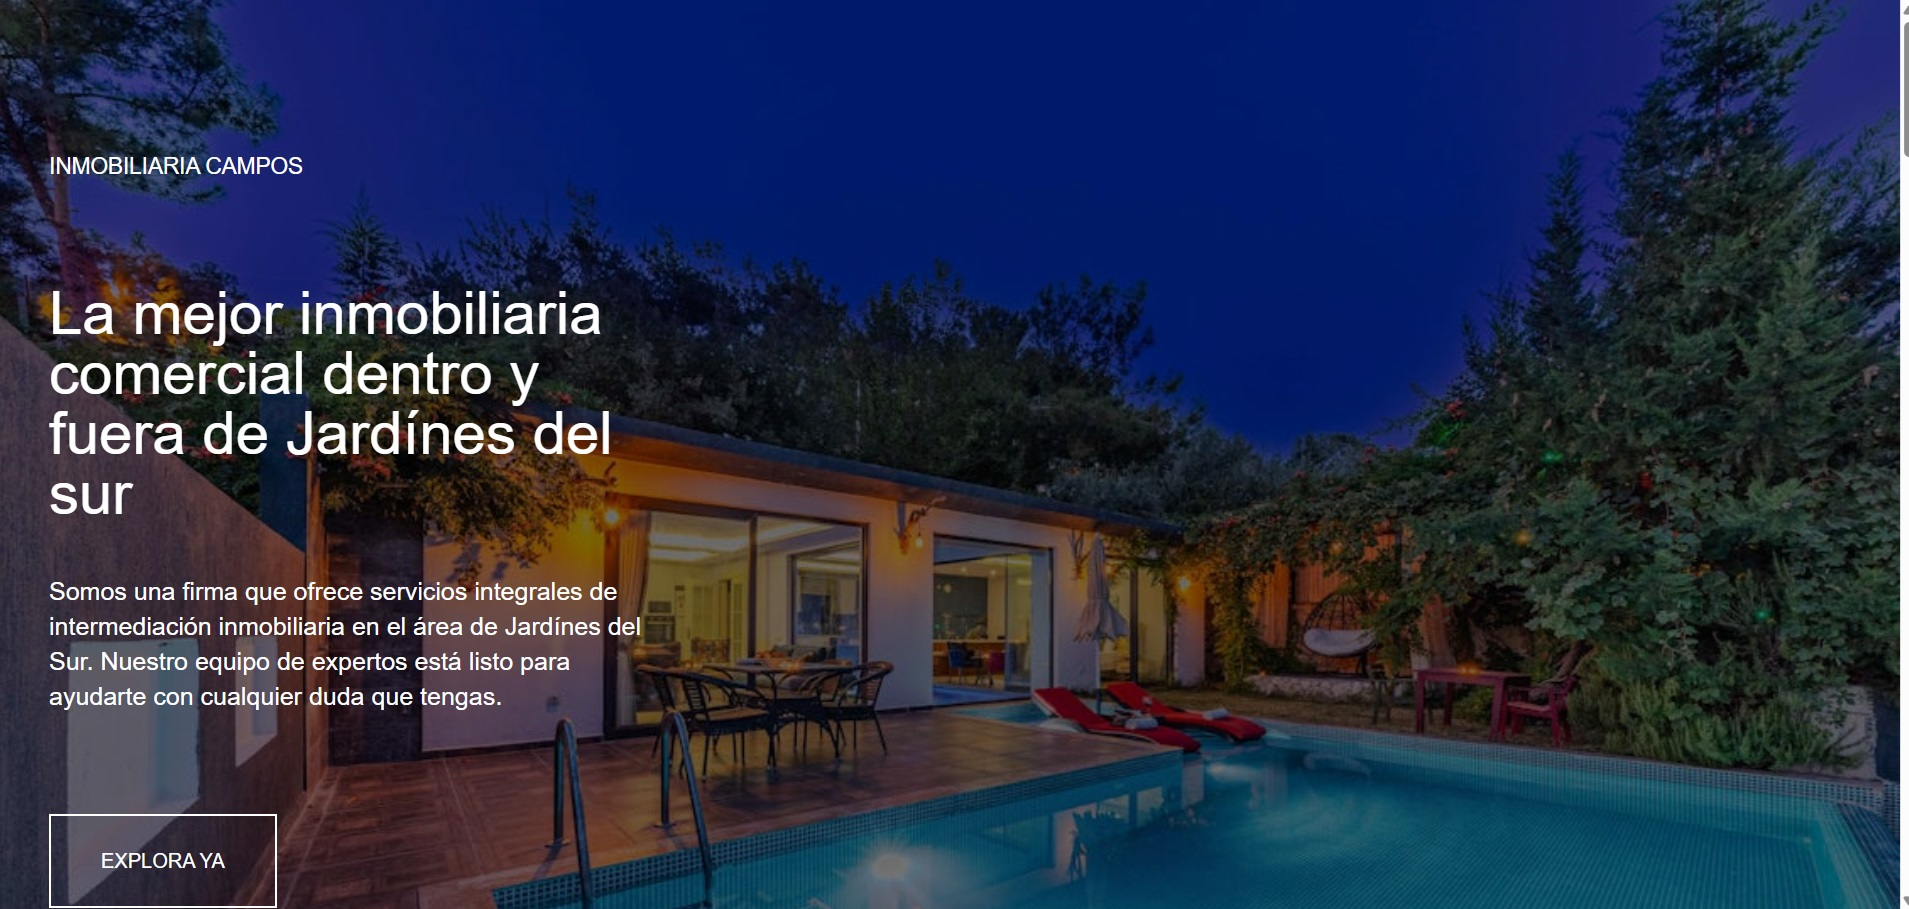
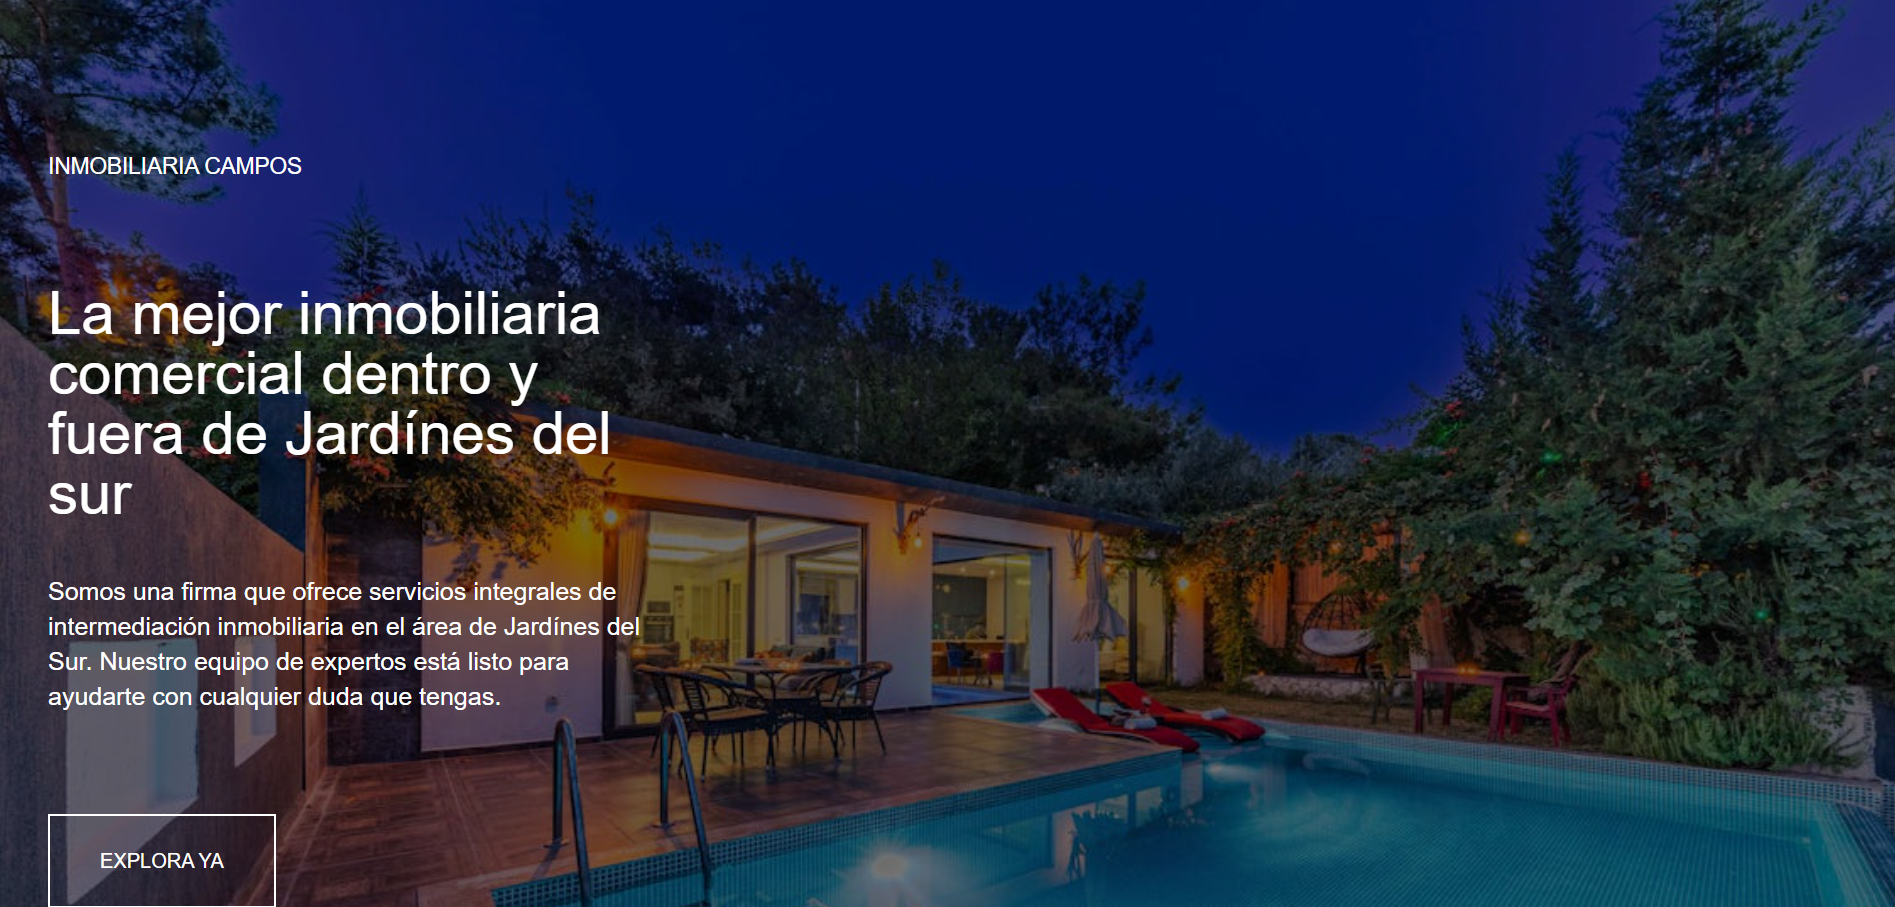
Imagen nueva y boton deshabilitado para no enviar mensajes múltiples, se añade spinner

diff --git a/app/contacto/styles.css b/app/contacto/styles.css
@@ -1,0 +1,122 @@
+.sk-circle {
+    margin: 20px auto;
+    width: 40px;
+    height: 40px;
+    position: relative;
+  }
+
+  .sk-circle .sk-child {
+    width: 100%;
+    height: 100%;
+    position: absolute;
+    left: 0;
+    top: 0;
+  }
+  .sk-circle .sk-child:before {
+    content: '';
+    display: block;
+    margin: 0 auto;
+    width: 15%;
+    height: 15%;
+    background-color: #333;
+    border-radius: 100%;
+    -webkit-animation: sk-circleBounceDelay 1.2s infinite ease-in-out both;
+            animation: sk-circleBounceDelay 1.2s infinite ease-in-out both;
+  }
+  .sk-circle .sk-circle2 {
+    -webkit-transform: rotate(30deg);
+        -ms-transform: rotate(30deg);
+            transform: rotate(30deg); }
+  .sk-circle .sk-circle3 {
+    -webkit-transform: rotate(60deg);
+        -ms-transform: rotate(60deg);
+            transform: rotate(60deg); }
+  .sk-circle .sk-circle4 {
+    -webkit-transform: rotate(90deg);
+        -ms-transform: rotate(90deg);
+            transform: rotate(90deg); }
+  .sk-circle .sk-circle5 {
+    -webkit-transform: rotate(120deg);
+        -ms-transform: rotate(120deg);
+            transform: rotate(120deg); }
+  .sk-circle .sk-circle6 {
+    -webkit-transform: rotate(150deg);
+        -ms-transform: rotate(150deg);
+            transform: rotate(150deg); }
+  .sk-circle .sk-circle7 {
+    -webkit-transform: rotate(180deg);
+        -ms-transform: rotate(180deg);
+            transform: rotate(180deg); }
+  .sk-circle .sk-circle8 {
+    -webkit-transform: rotate(210deg);
+        -ms-transform: rotate(210deg);
+            transform: rotate(210deg); }
+  .sk-circle .sk-circle9 {
+    -webkit-transform: rotate(240deg);
+        -ms-transform: rotate(240deg);
+            transform: rotate(240deg); }
+  .sk-circle .sk-circle10 {
+    -webkit-transform: rotate(270deg);
+        -ms-transform: rotate(270deg);
+            transform: rotate(270deg); }
+  .sk-circle .sk-circle11 {
+    -webkit-transform: rotate(300deg);
+        -ms-transform: rotate(300deg);
+            transform: rotate(300deg); }
+  .sk-circle .sk-circle12 {
+    -webkit-transform: rotate(330deg);
+        -ms-transform: rotate(330deg);
+            transform: rotate(330deg); }
+  .sk-circle .sk-circle2:before {
+    -webkit-animation-delay: -1.1s;
+            animation-delay: -1.1s; }
+  .sk-circle .sk-circle3:before {
+    -webkit-animation-delay: -1s;
+            animation-delay: -1s; }
+  .sk-circle .sk-circle4:before {
+    -webkit-animation-delay: -0.9s;
+            animation-delay: -0.9s; }
+  .sk-circle .sk-circle5:before {
+    -webkit-animation-delay: -0.8s;
+            animation-delay: -0.8s; }
+  .sk-circle .sk-circle6:before {
+    -webkit-animation-delay: -0.7s;
+            animation-delay: -0.7s; }
+  .sk-circle .sk-circle7:before {
+    -webkit-animation-delay: -0.6s;
+            animation-delay: -0.6s; }
+  .sk-circle .sk-circle8:before {
+    -webkit-animation-delay: -0.5s;
+            animation-delay: -0.5s; }
+  .sk-circle .sk-circle9:before {
+    -webkit-animation-delay: -0.4s;
+            animation-delay: -0.4s; }
+  .sk-circle .sk-circle10:before {
+    -webkit-animation-delay: -0.3s;
+            animation-delay: -0.3s; }
+  .sk-circle .sk-circle11:before {
+    -webkit-animation-delay: -0.2s;
+            animation-delay: -0.2s; }
+  .sk-circle .sk-circle12:before {
+    -webkit-animation-delay: -0.1s;
+            animation-delay: -0.1s; }
+  
+  @-webkit-keyframes sk-circleBounceDelay {
+    0%, 80%, 100% {
+      -webkit-transform: scale(0);
+              transform: scale(0);
+    } 40% {
+      -webkit-transform: scale(1);
+              transform: scale(1);
+    }
+  }
+  
+  @keyframes sk-circleBounceDelay {
+    0%, 80%, 100% {
+      -webkit-transform: scale(0);
+              transform: scale(0);
+    } 40% {
+      -webkit-transform: scale(1);
+              transform: scale(1);
+    }
+  }

diff --git a/app/contacto/page.tsx b/app/contacto/page.tsx
@@ -5,6 +5,7 @@ import { useForm } from 'react-hook-form'
 import ContactForm from '../components/ContactForm'
 import axios from 'axios'
 import { toast } from 'react-toastify'
+import './styles.css'
 
 type ContactoForm = {
   nombre: string
@@ -14,7 +15,7 @@ type ContactoForm = {
 }
 
 export default function Page() {
-
+    
   const initialValues = {
     nombre: '',
     email: '',
@@ -22,14 +23,33 @@ export default function Page() {
     mensaje: ''
   }
 
+  //Ejecutar codigo del lado del cliente === para el servidor
+  const isClient = () => typeof window !== 'undefined'  
+
   const {register, handleSubmit, reset, formState:{errors}} = useForm({defaultValues: initialValues})
   
   const handleContact = async (data:ContactoForm) => {
+
+    if(isClient()){
+      const spinner = document.querySelector('.sk-circle')
+      spinner?.classList.remove('hidden')
+      const button = document.querySelector('#submitButton')
+      button?.setAttribute('disabled', 'true')
+    } 
     const response = await axios.post(`${process.env.NEXT_PUBLIC_EMAIL_URL}`, data)
     const mensaje = response.data
     if(mensaje.success){
-      toast.success(mensaje.success)
-      reset()
+      if(isClient()){
+        const spinner = document.querySelector('.sk-circle')
+        const button = document.querySelector('#submitButton')
+        setTimeout(() => {
+          spinner?.classList.add('hidden')
+          button?.removeAttribute('disabled')
+          reset()
+          toast.success(mensaje.success)
+        }, 1000);
+      } 
+      
     }else{
       toast.error(mensaje.error)
     }    
@@ -53,11 +73,27 @@ export default function Page() {
             register={register}
             errors={errors}
           />
-            <input 
+            <div className={`sk-circle hidden`}>
+              <div className="sk-circle1 sk-child"></div>
+              <div className="sk-circle2 sk-child"></div>
+              <div className="sk-circle3 sk-child"></div>
+              <div className="sk-circle4 sk-child"></div>
+              <div className="sk-circle5 sk-child"></div>
+              <div className="sk-circle6 sk-child"></div>
+              <div className="sk-circle7 sk-child"></div>
+              <div className="sk-circle8 sk-child"></div>
+              <div className="sk-circle9 sk-child"></div>
+              <div className="sk-circle10 sk-child"></div>
+              <div className="sk-circle11 sk-child"></div>
+              <div className="sk-circle12 sk-child"></div>
+            </div>
+            <input
+            id='submitButton' 
             type='submit'
             value='Enviar email'
-            className='bg-blueLight w-full lg:w-fit rounded-md py-4 px-14 uppercase font-bold cursor-pointer transition-colors'
+            className={`bg-blueLight w-full lg:w-fit rounded-md py-4 px-14 uppercase font-bold cursor-pointer transition-colors`}
           />
+
           </fieldset>
         </form>
       </div>
